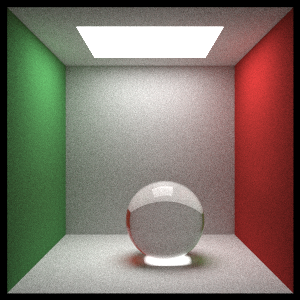
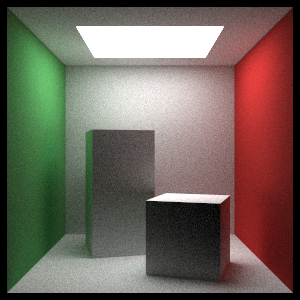
Next Week - Chapter 7: Instances
Added a class representing a cuboid.
Added classes to facilitate performing trig transformations on Hitable
objects (i.e. translations and rotations).

diff --git a/src/hitable/transformations.rs b/src/hitable/transformations.rs
@@ -1,0 +1,149 @@
+use bounding_boxes::axis_aligned::AxisAlignedBoundingBox;
+use hitable::hit_record::HitRecord;
+use hitable::hitable::Hitable;
+use ray::Ray;
+use std::f64::consts::PI;
+use std::f64::MAX as FLOAT_MAX;
+use std::f64::MIN as FLOAT_MIN;
+use vec3::Vec3;
+
+/// Wrapper struct that wraps a Hitable and shifts it by some given offset
+#[derive(Clone)]
+pub struct Translate {
+    pub hitable: Box<Hitable>,
+    pub offset: Vec3,
+}
+
+impl Translate {
+    /// Arguments:
+    /// - `hitable`: The Hitable to be shifted
+    /// - `offset`: The offset amount used to shift the Hitable
+    pub fn new(hitable: Box<Hitable>, offset: Vec3) -> Self {
+        Translate { hitable, offset }
+    }
+}
+
+impl Hitable for Translate {
+    fn hit(&self, ray: &Ray, t_min: f64, t_max: f64, rec: &mut HitRecord) -> bool {
+        let translated_ray = Ray::new(ray.origin - self.offset, ray.direction, ray.time);
+        if self.hitable.hit(&translated_ray, t_min, t_max, rec) {
+            rec.hit_point += self.offset;
+            return true;
+        }
+        false
+    }
+
+    fn bounding_box(&self, start_time: f64, end_time: f64) -> Option<AxisAlignedBoundingBox> {
+        match self.hitable.bounding_box(start_time, end_time) {
+            Some(bound) => Some(AxisAlignedBoundingBox::new(
+                bound.min_bound + self.offset,
+                bound.max_bound + self.offset,
+            )),
+            None => None,
+        }
+    }
+
+    fn box_clone(&self) -> Box<Hitable> {
+        Box::new((*self).clone())
+    }
+}
+
+/// Wrapper struct that wraps a Hitable and rotates it about the Y axis
+#[derive(Clone)]
+pub struct RotateY {
+    hitable: Box<Hitable>,
+    sin_theta: f64,
+    cos_theta: f64,
+    bounding_box: Option<AxisAlignedBoundingBox>,
+}
+
+impl RotateY {
+    /// Arguments:
+    /// - `hitable`: The Hitable to be rotated
+    /// - `theta`: The angle (in degrees) to rotate the Hitable
+    pub fn new(hitable: Box<Hitable>, theta: f64) -> Self {
+        let rads = (PI / 180.0) * theta;
+        let sin_theta = rads.sin();
+        let cos_theta = rads.cos();
+        let bounding_box: AxisAlignedBoundingBox = hitable.bounding_box(0.0, 1.0).unwrap();
+        let mut min = Vec3::new(FLOAT_MAX, FLOAT_MAX, FLOAT_MAX);
+        let mut max = Vec3::new(FLOAT_MIN, FLOAT_MIN, FLOAT_MIN);
+
+        for i in 0..2 {
+            for j in 0..2 {
+                for k in 0..2 {
+                    let x = i as f64 * bounding_box.max_bound.x()
+                        + (1 - i) as f64 * bounding_box.min_bound.x();
+                    let y = j as f64 * bounding_box.max_bound.y()
+                        + (1 - j) as f64 * bounding_box.min_bound.y();
+                    let z = k as f64 * bounding_box.max_bound.z()
+                        + (1 - k) as f64 * bounding_box.min_bound.z();
+                    // Rotated clockwise about the Y axis
+                    let rotated_x = cos_theta * x + sin_theta * z;
+                    let rotated_z = -sin_theta * x + cos_theta * z;
+                    let temp_rotation = Vec3::new(rotated_x, y, rotated_z);
+
+                    if temp_rotation.x() > max.x() {
+                        max[0] = temp_rotation.x();
+                    }
+                    if temp_rotation.x() < min.x() {
+                        min[0] = temp_rotation.x();
+                    }
+                    if temp_rotation.y() > max.y() {
+                        max[1] = temp_rotation.y();
+                    }
+                    if temp_rotation.y() < min.y() {
+                        min[1] = temp_rotation.y();
+                    }
+                    if temp_rotation.z() > max.z() {
+                        max[2] = temp_rotation.z();
+                    }
+                    if temp_rotation.z() < min.z() {
+                        min[2] = temp_rotation.z();
+                    }
+                }
+            }
+        }
+
+        RotateY {
+            hitable,
+            sin_theta,
+            cos_theta,
+            bounding_box: Some(AxisAlignedBoundingBox::new(min, max)),
+        }
+    }
+}
+
+impl Hitable for RotateY {
+    fn hit(&self, ray: &Ray, t_min: f64, t_max: f64, rec: &mut HitRecord) -> bool {
+        let mut origin = ray.origin;
+        let mut direction = ray.direction;
+        // Rotated counter-clockwise about the Y axis
+        origin[0] = self.cos_theta * ray.origin.x() - self.sin_theta * ray.origin.z();
+        origin[2] = self.sin_theta * ray.origin.x() + self.cos_theta * ray.origin.z();
+        direction[0] = self.cos_theta * ray.direction.x() - self.sin_theta * ray.direction.z();
+        direction[2] = self.sin_theta * ray.direction.x() + self.cos_theta * ray.direction.z();
+        let rotated_ray = Ray::new(origin, direction, ray.time);
+        if self.hitable.hit(&rotated_ray, t_min, t_max, rec) {
+            let mut hit_point = rec.hit_point;
+            let mut normal = rec.normal;
+            hit_point[0] = self.cos_theta * rec.hit_point.x() + self.sin_theta * rec.hit_point.z();
+            hit_point[2] = -self.sin_theta * rec.hit_point.x() + self.cos_theta * rec.hit_point.z();
+            normal[0] = self.cos_theta * rec.normal.x() + self.sin_theta * rec.normal.z();
+            normal[2] = -self.sin_theta * rec.normal.x() + self.cos_theta * rec.normal.z();
+            rec.hit_point = hit_point;
+            rec.normal = normal;
+            return true;
+        } else {
+            return false;
+        }
+    }
+
+    fn bounding_box(&self, _start_time: f64, _end_time: f64) -> Option<AxisAlignedBoundingBox> {
+        self.bounding_box
+    }
+
+    fn box_clone(&self) -> Box<Hitable> {
+        Box::new((*self).clone())
+    }
+}

diff --git a/src/main.rs b/src/main.rs
@@ -26,12 +26,15 @@ use hitable::hit_record::HitRecord;
 use hitable::hitable::Hitable;
 use hitable::hitable_list::HitableList;
 use hitable::moving_sphere::MovingSphere;
-use hitable::rectangles::{XYRect, XZRect, YZRect};
+use hitable::rectangles::{AxisAlignedBlock, XYRect, XZRect, YZRect};
 use hitable::sphere::Sphere;
+use hitable::transformations::{RotateY, Translate};
 use material::materials::{Dielectric, DiffuseLight, Lambertian, Metal};
 use ray::Ray;
 use texture::textures::{CheckerTexture, ConstantTexture};
 use vec3::Vec3;
+
+static MAX_DEPTH: i32 = 50;
 
 /// Calculates a final color value for a given Ray
 fn get_color(ray: &Ray, world: &BvhNode, depth: i32) -> Vec3 {
@@ -51,7 +54,7 @@ fn get_color(ray: &Ray, world: &BvhNode, depth: i32) -> Vec3 {
                 Vec3::new(0.0, 0.0, 0.0),
             ),
         };
-        if depth < 50 && did_scatter {
+        if depth < MAX_DEPTH && did_scatter {
             return emitted_light + attenuation * get_color(&scattered_ray, world, depth + 1);
         } else {
             return emitted_light;
@@ -211,7 +214,7 @@ fn create_cornell_box() -> BvhNode {
         k: 0.0,
     });
     let ceiling = Box::new(XZRect {
-        material: Box::new(white),
+        material: Box::new(white.clone()),
         x_0: 0.0,
         x_1: 555.0,
         z_0: 0.0,
@@ -220,10 +223,10 @@ fn create_cornell_box() -> BvhNode {
     });
     let ceiling_light = Box::new(XZRect {
         material: Box::new(light),
-        x_0: 113.0,
+        x_0: 112.0,
         x_1: 443.0,
         z_0: 127.0,
-        z_1: 432.0,
+        z_1: 428.0,
         k: 554.0,
     });
 
@@ -234,11 +237,28 @@ fn create_cornell_box() -> BvhNode {
         floor,
         Box::new(FlipNormals::new(ceiling)),
         ceiling_light,
-        Box::new(Sphere {
-            center: Vec3::new(240.0, 100.0, 250.0),
-            radius: 100.0,
-            material: Box::new(Dielectric::new(1.5)),
-        }),
+        Box::new(Translate::new(
+            Box::new(RotateY::new(
+                Box::new(AxisAlignedBlock::new(
+                    Vec3::new(0.0, 0.0, 0.0),
+                    Vec3::new(165.0, 330.0, 165.0),
+                    Box::new(white.clone()),
+                )),
+                15.0,
+            )),
+            Vec3::new(265.0, 0.0, 295.0),
+        )),
+        Box::new(Translate::new(
+            Box::new(RotateY::new(
+                Box::new(AxisAlignedBlock::new(
+                    Vec3::new(0.0, 0.0, 0.0),
+                    Vec3::new(165.0, 165.0, 165.0),
+                    Box::new(white.clone()),
+                )),
+                -18.0,
+            )),
+            Vec3::new(130.0, 0.0, 65.0),
+        )),
     ];
 
     BvhNode::new(&mut HitableList { list }, 0.0, 0.0)
@@ -246,17 +266,16 @@ fn create_cornell_box() -> BvhNode {
 
 fn main() {
     let num_threads: usize = num_cpus::get();
-    // let numX = 1200;
-    // let numY = 800;
-    // let num_samples_per_thread = 125;
+    // let numX = 1080;
+    // let numY = 1080;
     let num_x = 300;
     let num_y = 300;
     let num_samples_per_thread = 125;
     let num_samples = num_threads * num_samples_per_thread;
     let range = Uniform::new_inclusive(0.0, 1.0);
     let mut img_buff = image::ImageBuffer::new(num_x, num_y);
-    let look_from = Vec3::new(278.0, 278.0, -800.0);
-    let look_at = Vec3::new(278.0, 278.0, 0.0);
+    let look_from = Vec3::new(277.5, 277.5, -800.0);
+    let look_at = Vec3::new(277.5, 277.5, 0.0);
     let camera = Camera::new(
         look_from,
         look_at,

diff --git a/src/hitable/rectangles.rs b/src/hitable/rectangles.rs
@@ -1,6 +1,8 @@
 use bounding_boxes::axis_aligned::AxisAlignedBoundingBox;
+use hitable::flip_normals::FlipNormals;
 use hitable::hit_record::HitRecord;
 use hitable::hitable::Hitable;
+use hitable::hitable_list::HitableList;
 use material::material::Material;
 use ray::Ray;
 use vec3::Vec3;
@@ -139,6 +141,94 @@ impl Hitable for YZRect {
             Vec3::new(self.k - 0.0001, self.y_0, self.z_0),
             Vec3::new(self.k + 0.0001, self.y_1, self.z_1),
         ))
+    }
+
+    fn box_clone(&self) -> Box<Hitable> {
+        Box::new((*self).clone())
+    }
+}
+
+/// Represents a block (i.e. a six-sided cuboid)
+#[derive(Clone)]
+pub struct AxisAlignedBlock {
+    pub p_min: Vec3,
+    pub p_max: Vec3,
+    pub sides: HitableList,
+}
+
+impl AxisAlignedBlock {
+    /// Constructs a new AxisAlignedBlock
+    /// #### Arguments:
+    /// - `p_min`: The plane to use for the lower bound of the box
+    /// - `p_max`: The plane to use for the upper bound of the box
+    /// - `material`: The material to use for the sides of the box
+    pub fn new(p_min: Vec3, p_max: Vec3, material: Box<Material>) -> Self {
+        let left_wall = Box::new(YZRect {
+            material: material.clone(),
+            y_0: p_min.y(),
+            y_1: p_max.y(),
+            z_0: p_min.z(),
+            z_1: p_max.z(),
+            k: p_max.x(),
+        });
+        let right_wall = Box::new(FlipNormals::new(Box::new(YZRect {
+            material: material.clone(),
+            y_0: p_min.y(),
+            y_1: p_max.y(),
+            z_0: p_min.z(),
+            z_1: p_max.z(),
+            k: p_min.x(),
+        })));
+        let back_wall = Box::new(XYRect {
+            material: material.clone(),
+            x_0: p_min.x(),
+            x_1: p_max.x(),
+            y_0: p_min.y(),
+            y_1: p_max.y(),
+            k: p_max.z(),
+        });
+        let front_wall = Box::new(FlipNormals::new(Box::new(XYRect {
+            material: material.clone(),
+            x_0: p_min.x(),
+            x_1: p_max.x(),
+            y_0: p_min.y(),
+            y_1: p_max.y(),
+            k: p_min.z(),
+        })));
+        let floor = Box::new(FlipNormals::new(Box::new(XZRect {
+            material: material.clone(),
+            x_0: p_min.x(),
+            x_1: p_max.x(),
+            z_0: p_min.z(),
+            z_1: p_max.z(),
+            k: p_min.y(),
+        })));
+        let ceiling = Box::new(XZRect {
+            material: material.clone(),
+            x_0: p_min.x(),
+            x_1: p_max.x(),
+            z_0: p_min.z(),
+            z_1: p_max.z(),
+            k: p_max.y(),
+        });
+
+        AxisAlignedBlock {
+            p_min,
+            p_max,
+            sides: HitableList {
+                list: vec![left_wall, right_wall, back_wall, front_wall, floor, ceiling],
+            },
+        }
+    }
+}
+
+impl Hitable for AxisAlignedBlock {
+    fn hit(&self, ray: &Ray, t_min: f64, t_max: f64, rec: &mut HitRecord) -> bool {
+        self.sides.hit(ray, t_min, t_max, rec)
+    }
+
+    fn bounding_box(&self, _start_time: f64, _end_time: f64) -> Option<AxisAlignedBoundingBox> {
+        Some(AxisAlignedBoundingBox::new(self.p_min, self.p_max))
     }
 
     fn box_clone(&self) -> Box<Hitable> {

diff --git a/src/hitable/mod.rs b/src/hitable/mod.rs
@@ -1,9 +1,10 @@
 pub mod bvh_node;
+pub mod flip_normals;
 pub mod hit_record;
 pub mod hitable;
 pub mod hitable_list;
 pub mod moving_sphere;
+pub mod rectangles;
 pub mod sphere;
 pub mod utils;
-pub mod rectangles;
-pub mod flip_normals;
+pub mod transformations;
